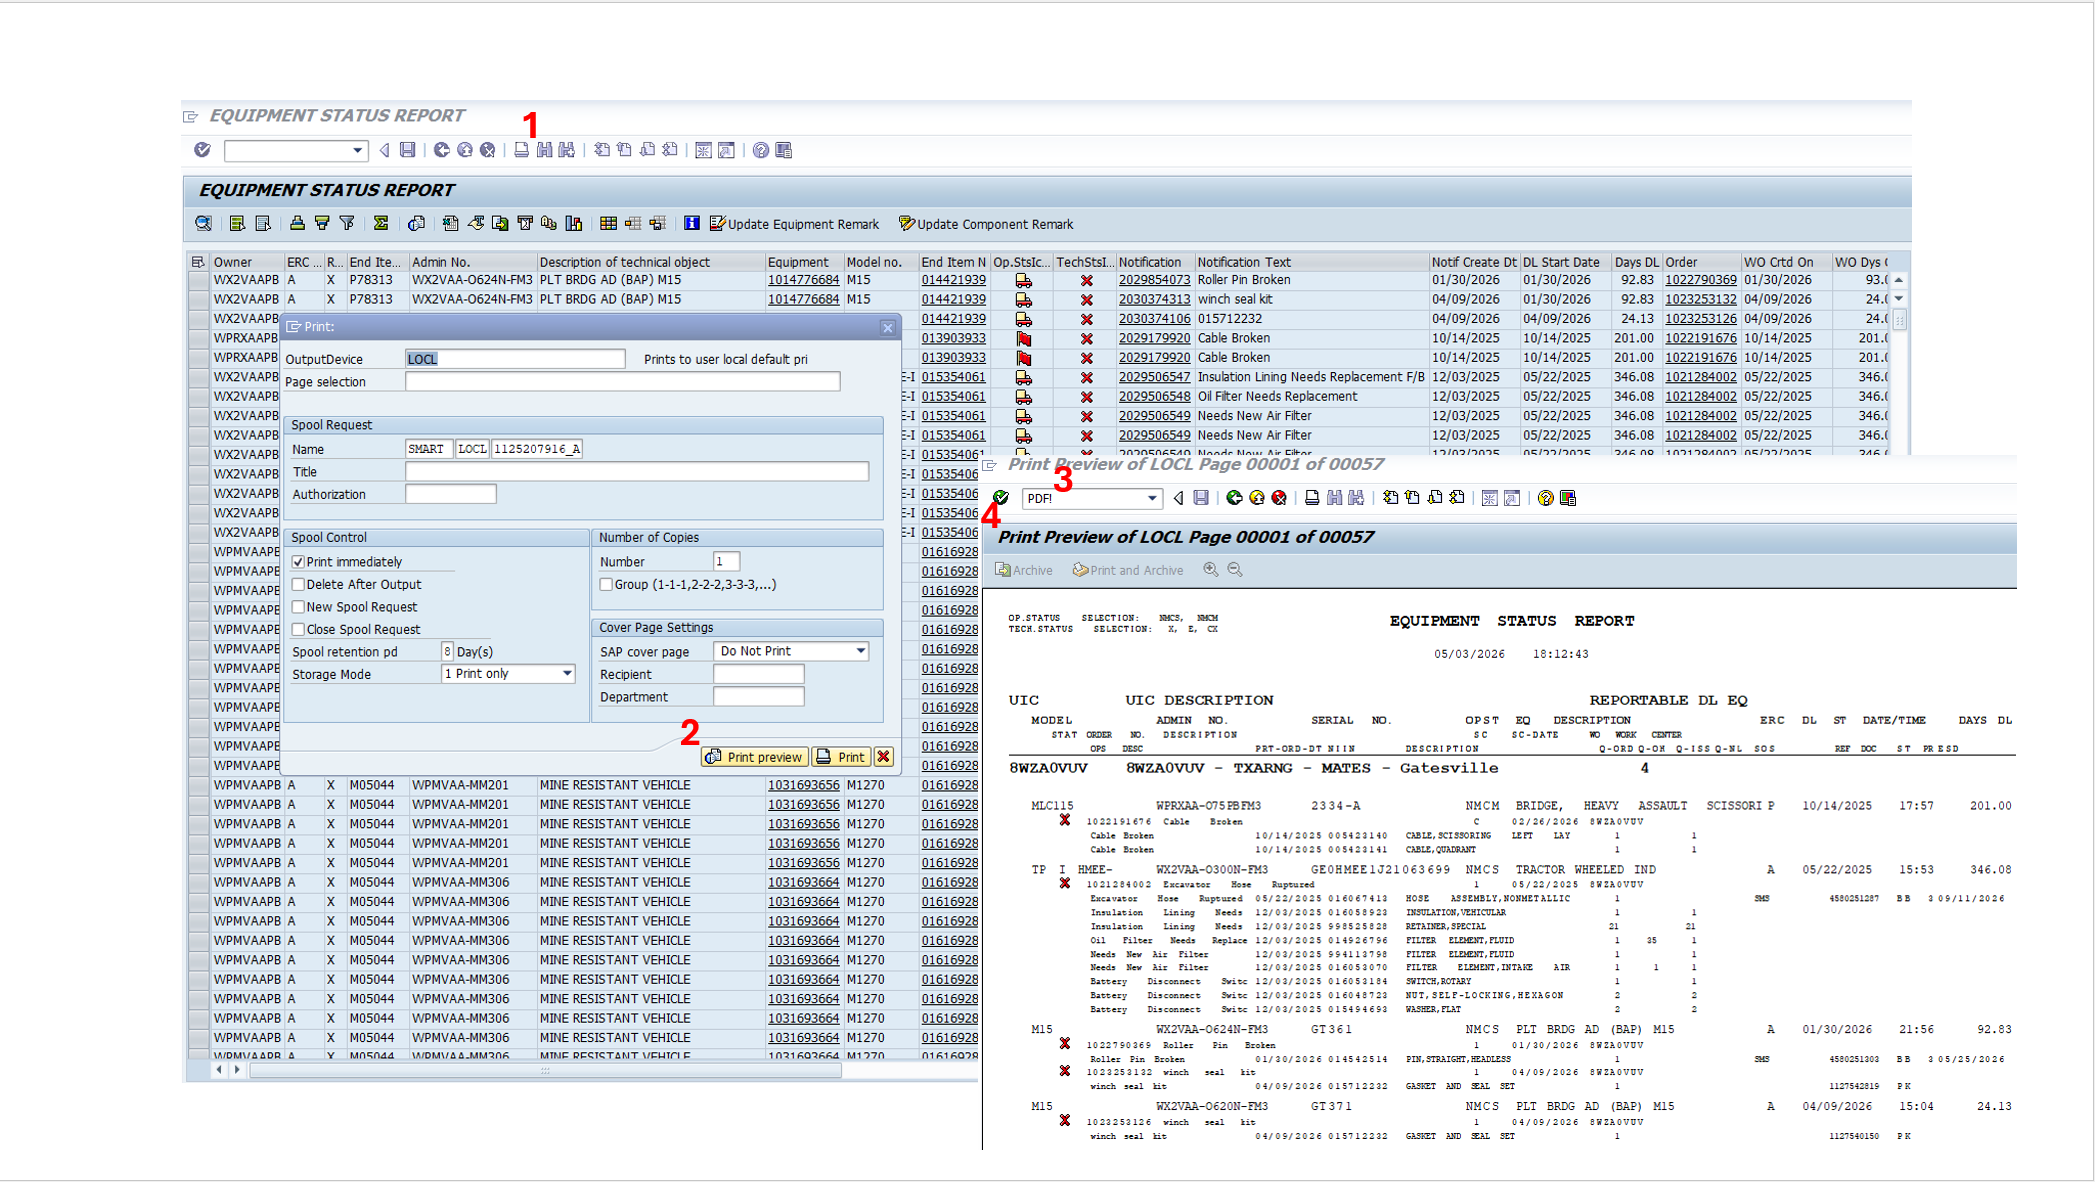
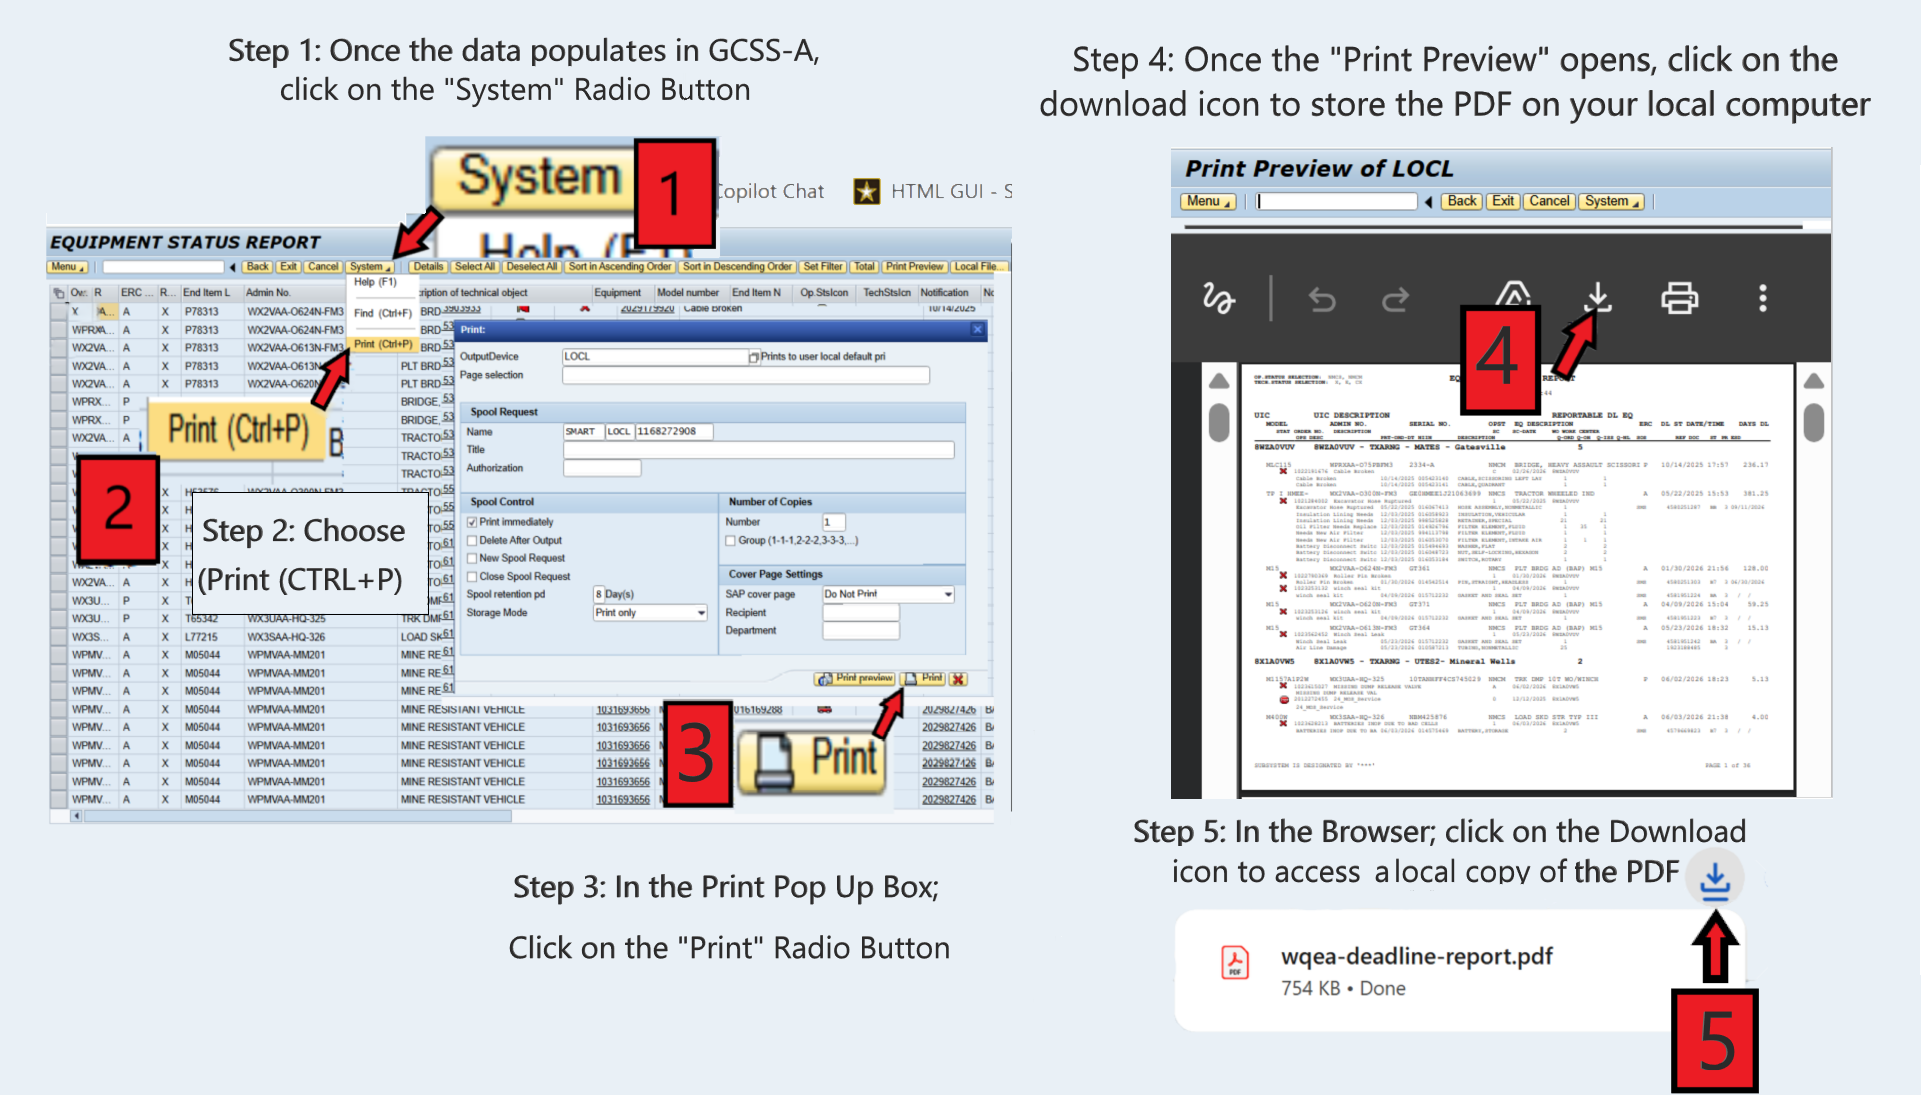
content: updated for slides and reformated for housekeeping

diff --git a/content/esr-class/gcssa/sl12-gcssa-access-esr.html b/content/esr-class/gcssa/sl12-gcssa-access-esr.html
@@ -26,31 +26,20 @@
   </header>
   <main class="slide-shell" data-current-slide="12">
     <section class="slide-card" aria-labelledby="slide-title">
-      <h1 id="slide-title" class="two-line-title"><span>How to access the ESR in GCSS-A</span><span>EK Z-EQUST -
-          Equipment Status Report</span></h1>
+      <h1 id="slide-title" class="two-line-title"><span>How to access the ESR in GCSS-A</span><span>T Code: Z-EQUST
+          (Equipment Status Report)</span></h1>
       <div class="slide-figure">
-        <a class="slide-arrow slide-arrow-left" href="../esr/main/sl11-questions.html" aria-label="Previous page"></a>
+
         <img class="slide-image" src="../../../assets/images/esr-class/how-to/how-to-1.png"
           alt="Slide 12: How to access the ESR in GCSS-A; EK Z-EQUST - Equipment Status Report">
-        <a class="slide-arrow slide-arrow-right" href="sl13-open-esr-pdf.html" aria-label="Next page"></a>
+        <a class="slide-arrow slide-arrow-right" href="sl13-run-esr-report.html" aria-label="Next page"></a>
       </div>
 
       <div class="slide-copy">
-        <p>This is the GCSS-Army command used to open the Equipment Status Report. Begin here to filter the report to
-          display all Non-Mission Capable Prime Movers in your UIC.</p>
-        <p>Step 1: Select [Force Element] and enter your unit <strong>UIC</strong>.
-        <p>Step 2: In the [Equipment Category] field, enter <strong>"C"</strong> Fleet-self Prop-RPT(Rolling Stock)</p>
-        <p> 3: Verify the [Equipment Operational Status] field contains "<strong>NMC*</strong>". <strong>*</strong> is a
-          wildcard.</p>
-        <p>Step 4: Verify the [Technical Status] field contains "<strong>X</strong>" (NMC)and "<strong>E</strong>"
-          (Administrative Deadline) as shown.
-        </p>
-        <p>Step 5: Verify <i>Include Suborders</i> is <strong>checked</strong> to ensure maintenance actions performed by
-          supporting
-          maintenance activities and external shops are included in the report.</p>
-        <p>Step 6: <strong>Execute</strong> the report. </p>
-        <p>The resulting Deadline Report will display all Fleet-self Prop  currently in a Non-Mission
-          Capable (NMC) status.
+        <p><strong>Z-EQUST</strong> is the GCSS-Army command used to open the Equipment Status Report. Begin here to
+          filter the report to display all Non-Mission Capable Prime Movers in your UIC.</p>
+        <p>The resulting Deadline Report will display all Fleet-self Prop (aka Rolling Stock) currently in GCSS-A and in
+          a Non-Mission Capable (NMC) status.
         </p>
       </div>
     </section>